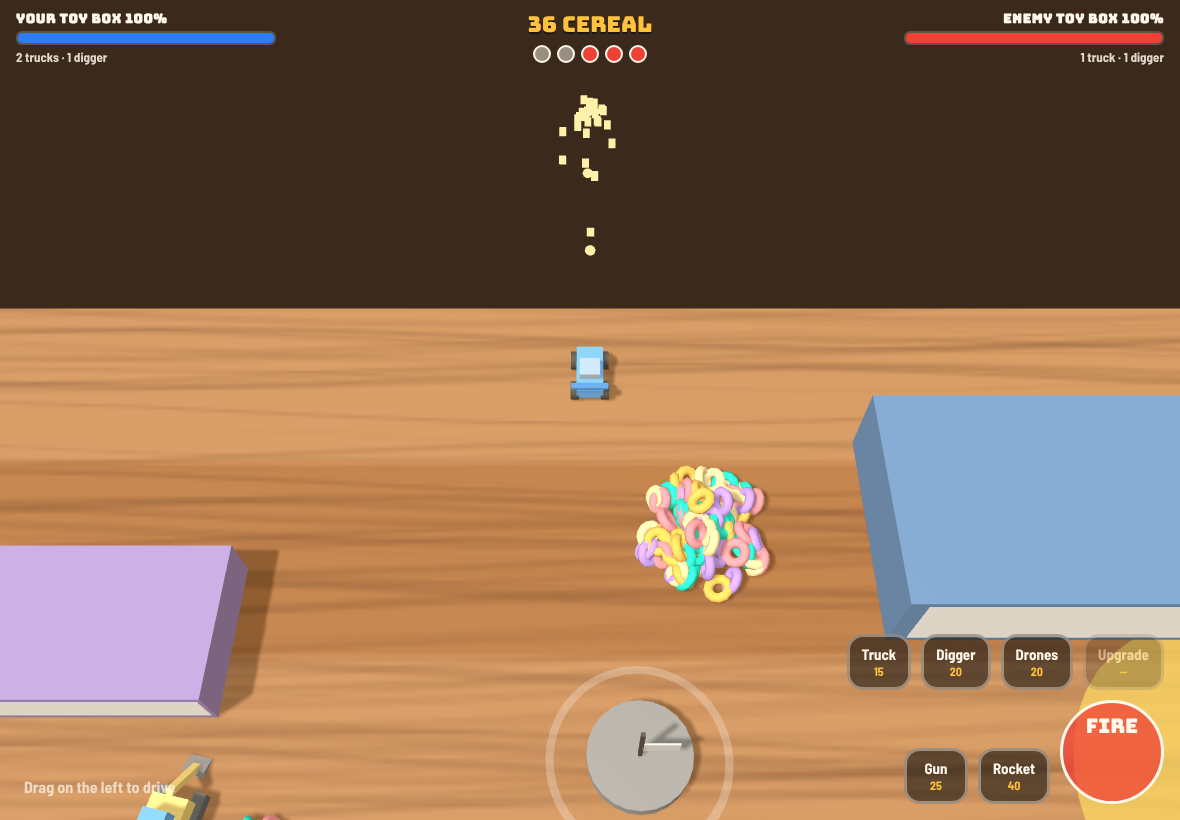
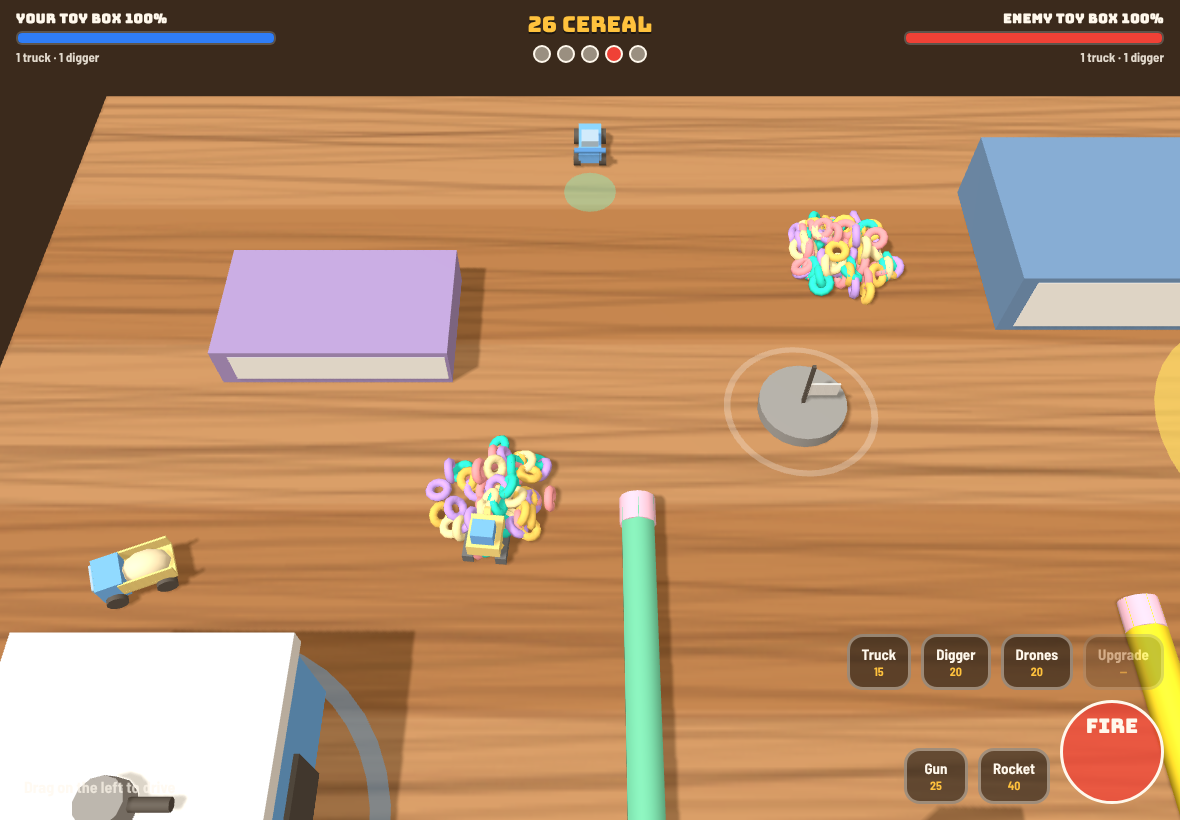
Baguettes & Ballistics: camera stays over the table; build ghost shows where a turret goes
Claude-Session: https://claude.ai/code/session_0171oc5wTsPoimaja7RRfUcs

diff --git a/games/baguettes-and-ballistics/index.html b/games/baguettes-and-ballistics/index.html
@@ -821,7 +821,7 @@ function makeTurret(type, team, x, z) {
 }
 function canPlace(x, z, team) {
   if (Math.abs(x) > W / 2 - 3 || Math.abs(z) > D / 2 - 3) return 'Too close to the edge';
-  if (obstacles.some((o) => Math.abs(x - o.x) < o.w / 2 + 2 && Math.abs(z - o.z) < o.d / 2 + 2)) return 'Something is in the way';
+  if (obstacles.some((o) => Math.abs(x - o.x) < o.w / 2 + 2 && Math.abs(z - o.z) < o.d / 2 + 2)) return 'Something is in the way: build where the circle is green';
   const enemyBase = state.bases[1 - team];
   // Further than any turret can reach (rockets at level 3 reach ~33), so toy boxes fall to cars, not sniping.
   if (dist2({ x, z }, enemyBase) < 36 * 36) return 'Too close to their toy box';
@@ -1148,6 +1148,7 @@ function update(dt) {
 }
 
 const camTarget = new THREE.Vector3();
+let ghost = null;
 function render(dt) {
   const time = performance.now() / 1000;
   for (const e of entities) {
@@ -1184,7 +1185,22 @@ function render(dt) {
   const p = state.player;
   if (p) {
     const zoom = camera.aspect < 1 ? 1.5 : 1;
-    camTarget.lerp(new THREE.Vector3(p.x + p.vx * 0.35, 0, p.z + p.vz * 0.35), 1 - Math.exp(-4 * dt));
+    // Keep the view on the table: near an edge the car moves off-centre instead of the camera showing the dark beyond.
+    const lead = new THREE.Vector3(p.x + p.vx * 0.35, 0, p.z + p.vz * 0.35);
+    lead.x = Math.max(-W / 2 + 30, Math.min(W / 2 - 30, lead.x));
+    lead.z = Math.max(-D / 2 + 22, Math.min(D / 2 - 14, lead.z));
+    camTarget.lerp(lead, 1 - Math.exp(-4 * dt));
+    // Build ghost: where a turret would go (behind you). Green = you can build here, red = you can't.
+    if (!ghost) {
+      ghost = new THREE.Mesh(new THREE.CylinderGeometry(1.8, 1.8, 0.15, 24), new THREE.MeshBasicMaterial({ color: 0x3ddc84, transparent: true, opacity: 0.45, depthWrite: false }));
+      scene.add(ghost);
+    }
+    const gx = p.x - Math.cos(p.heading) * 4, gz = p.z - Math.sin(p.heading) * 4;
+    const ok = p.alive && !canPlace(gx, gz, BLUE) && state.cereal[BLUE] >= costOf('gun');
+    ghost.visible = p.alive && !state.over;
+    ghost.position.set(gx, 0.1, gz);
+    ghost.material.color.setHex(ok ? 0x3ddc84 : 0xff5a5f);
+    ghost.material.opacity = 0.3 + Math.sin(time * 5) * 0.12;
     state.shake = Math.max(0, (state.shake || 0) - dt * 2.5);
     const sh = state.shake * 0.8;
     camera.position.set(camTarget.x + (Math.random() - 0.5) * sh, 50 * zoom, camTarget.z + 34 * zoom + (Math.random() - 0.5) * sh);

diff --git a/games/baguettes-and-ballistics/HANDOVER.md b/games/baguettes-and-ballistics/HANDOVER.md
@@ -13,8 +13,7 @@ This file is for the developers (human or AI) picking it up. Read this, then
 | ![title](shots/1-title.png) | ![economy](shots/3-economy.png) |
 
 ![off the edge](shots/4-battle.png)
-*Known bug, shown above: the player can drive off the table into the dark,
-and the camera follows.*
+*Near the table edge the camera now stays over the table. The green circle behind the car is the build ghost: green means a turret fits there and you can afford it, red means you can't.*
 
 ## 2. How to run it
 
@@ -86,8 +85,8 @@ and the camera follows.*
 
 ## 5. Known problems (fix first)
 
-1. **Edge of the table:** the player can drive off the table into the void (screenshot above). Clamp them to the table, or let them fall off and respawn at home: funnier.
-2. **Building is unclear:** pressing 1 next to the pencil gives "Something is in the way", with no hint where you *can* build. Show a ghost turret, green or red, before you place it.
+1. ~~**Edge of the table**~~ **Fixed 31 Oct:** the car was always kept on the table; the camera showed the dark beyond. It now stays over the table.
+2. ~~**Building is unclear**~~ **Fixed 31 Oct:** a build ghost (green or red circle) shows where a turret will go.
 3. **Sound:** beeps only. This is the single biggest gap in how it feels.
 4. **Hard start:** new players struggle in the first minute (Harry: "starts off really hard, but you get the knack"). It needs a gentler first two minutes, or a short tutorial.
 5. **No level select or progress saving.**
@@ -98,7 +97,7 @@ and the camera follows.*
 | # | Job | Why | Done when |
 |---|---|---|---|
 | 0 | **Race-then-battle opening** (DESIGN.md, "The twist") | Harry's big idea; teaches driving first | a level starts as a 3-lap race with boxes; dropped boxes become your base when the race ends |
-| 1 | Table edge + build ghost | stops the two worst frustrations | you can't fall into the void unless the design says so; you can see where a turret will go before buying |
+| 1 | ~~Table edge + build ghost~~ done 31 Oct | stops the two worst frustrations | you can't fall into the void unless the design says so; you can see where a turret will go before buying |
 | 2 | Sound pass | toys must *sound* like toys | each weapon, impact, pickup and build has its own clicky toy sound (Web Audio, generated in code); the kettle click counts down |
 | 3 | Game feel ("juice") | makes every hit satisfying | screen shake on big hits, hit-flash, cereal bursting out of wrecks, wheels kicking crumbs |
 | 4 | First-two-minutes tutorial | keeps new players | a new player builds a truck, a digger and a turret in the first 2 minutes without reading the text |
